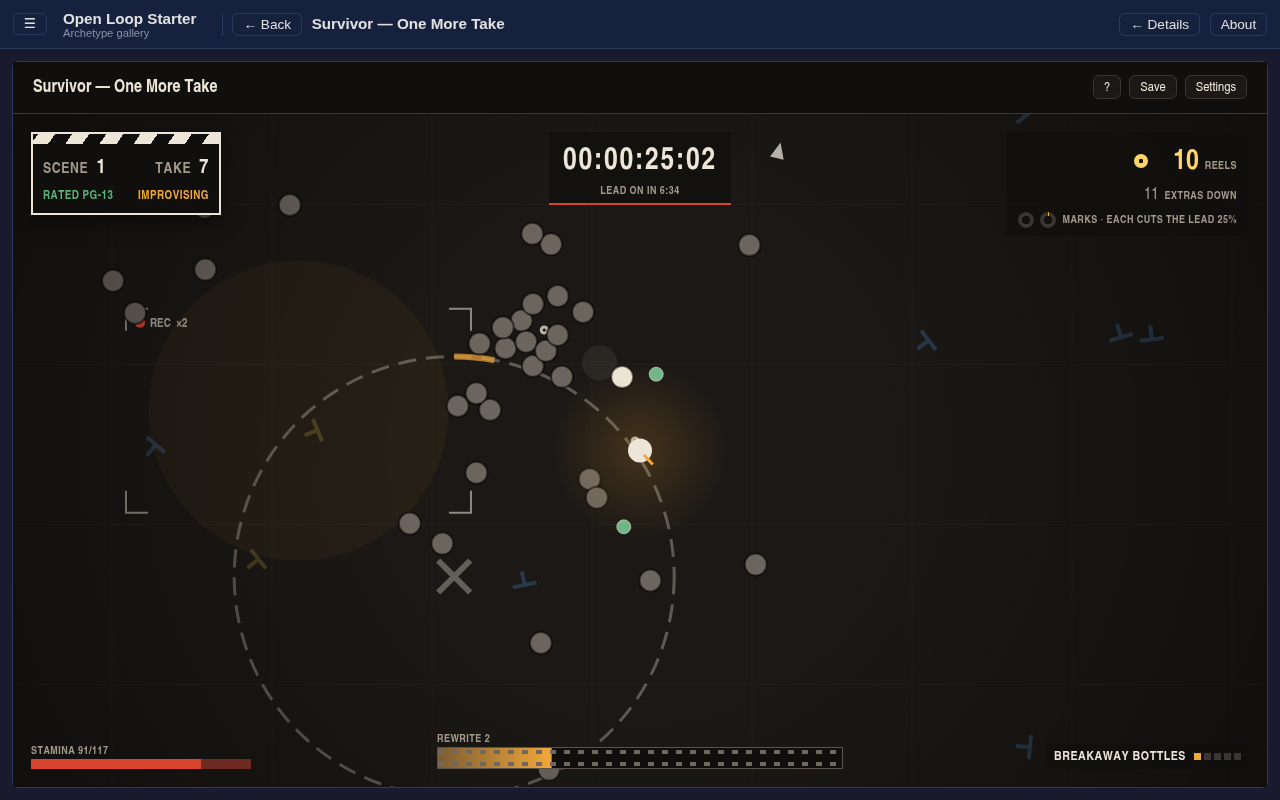
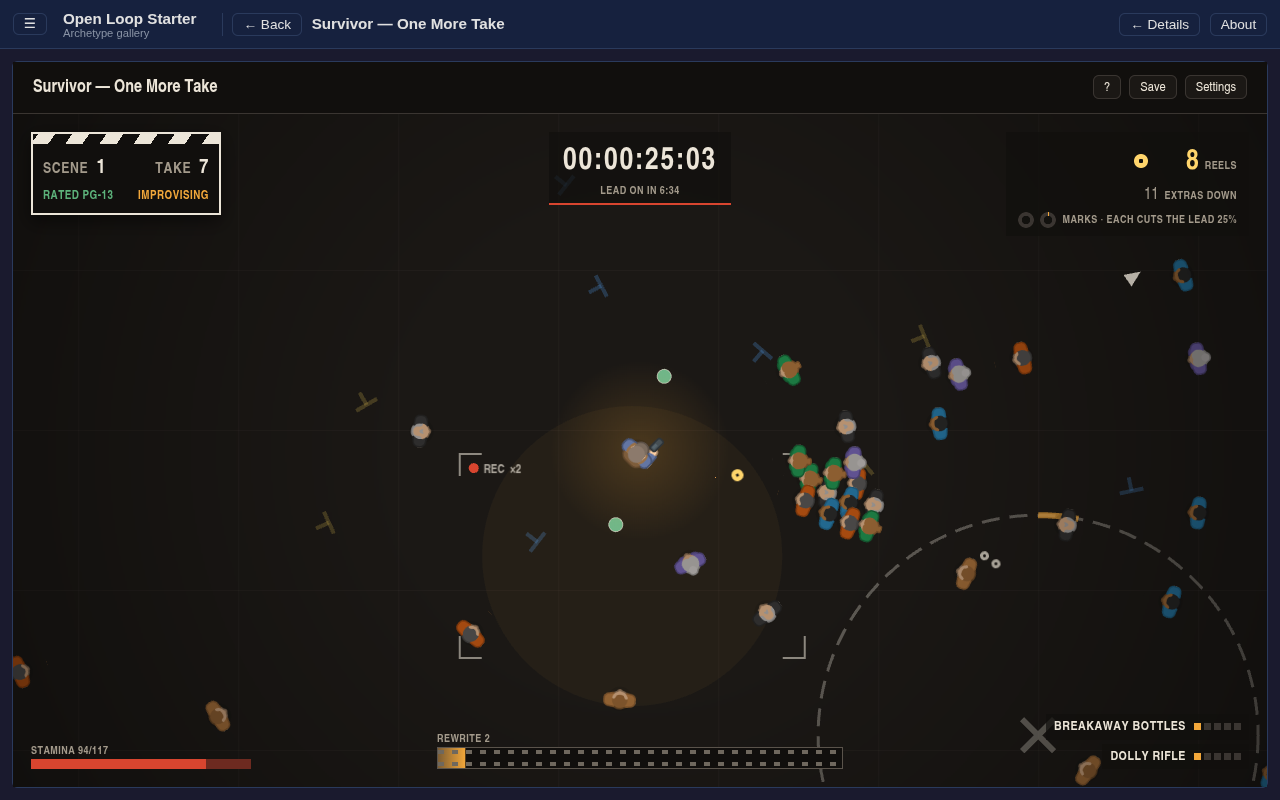
docs(survivor): the floor is starter's pixi play space
AGENTS.md § Adding a renderer names survivor's ui/floor/ as the pixi
play space beside skirmish's three.js one, and defender's PestLayer as
a pixi layer over a DOM board. The eject test locks that a survivor
fork keeps pixi.js. The games-site shots are re-taken on the host GPU,
so the cards show the figures and effects. The floor's headers use
American spelling.

Refs #59

diff --git a/src/showcase/archetypes/survivor/ui/floor/floor-scene.ts b/src/showcase/archetypes/survivor/ui/floor/floor-scene.ts
@@ -11,11 +11,11 @@
  * loop shape whatever draws them.
  *
  * Bodies are Kenney figures turned to face where they walk, tinted half-way toward their
- * kind's colour so the kinds read apart; the cast stand on rings. Effects are unTied
+ * kind's color so the kinds read apart; the cast stand on rings. Effects are unTied
  * animations played to their last frame, longer than the sim keeps the entry that started
  * them (`bursts.ts`). The art and its packing are in `floor-art.ts`.
  *
- * Colours are the costume's (`soundstage.css`), mirrored as literals, because a renderer
+ * Colors are the costume's (`soundstage.css`), mirrored as literals, because a renderer
  * cannot read CSS variables per draw. The billing face is read from `--font-billing` once.
  */
 import {
@@ -835,7 +835,7 @@ function lerpColor(a: number, b: number, t: number): number {
 }
 
 /**
- * An X of two butt-ended arms from the centre out to `arm` on each diagonal, `width` thick, as
+ * An X of two butt-ended arms from the center out to `arm` on each diagonal, `width` thick, as
  * one outline. Two stroked arms would double their alpha where they cross; one polygon
  * paints the crossing once, as the canvas's single stroked path did.
  */
@@ -874,7 +874,7 @@ function dashedCircle(g: Graphics, x: number, y: number, r: number, on: number, 
   return g;
 }
 
-/** A square canvas with a radial gradient from its centre to its edge. */
+/** A square canvas with a radial gradient from its center to its edge. */
 function radialCanvas(size: number, stops: [number, string][]): HTMLCanvasElement {
   const c = document.createElement('canvas');
   c.width = c.height = size;

diff --git a/src/showcase/archetypes/survivor/ui/TakeView.vue b/src/showcase/archetypes/survivor/ui/TakeView.vue
@@ -35,7 +35,7 @@ function syncInput(): void {
   if (keys.has('arrowdown') || keys.has('s')) my += 1;
   const floor = field.value?.$el as HTMLElement | undefined;
   if (mx === 0 && my === 0 && pointer && floor) {
-    // The camera holds the double at the floor's centre, so the pointer steers from there.
+    // The camera holds the double at the floor's center, so the pointer steers from there.
     const r = floor.getBoundingClientRect();
     const dx = pointer.x - (r.left + r.width / 2);
     const dy = pointer.y - (r.top + r.height / 2);
@@ -359,7 +359,7 @@ const slip = computed(() => {
   background: radial-gradient(circle, var(--stage-black) 0 2px, var(--reel-gold) 2.5px);
   align-self: center;
 }
-/* The cue cards stack under the timecode, each centred on it. */
+/* The cue cards stack under the timecode, each centered on it. */
 .cues {
   display: flex;
   flex-direction: column;
@@ -373,7 +373,7 @@ const slip = computed(() => {
 .take :deep(.strip-float) {
   align-self: stretch;
 }
-/* The HUD's bars are flat tape with square ends, and keep their own colours when full or empty. */
+/* The HUD's bars are flat tape with square ends, and keep their own colors when full or empty. */
 .bar,
 .filmstrip {
   --progress-bar-fill-full: var(--progress-bar-fill);

diff --git a/src/test/eject.test.ts b/src/test/eject.test.ts
@@ -80,6 +80,7 @@ describe('eject plan', () => {
   it('drops the showcase-only dependencies the kept game does not import', () => {
     expect(planEject(ROOT, 'cycler').dropDependencies).toContain('pixi.js');
     expect(planEject(ROOT, 'defender').dropDependencies).not.toContain('pixi.js');
+    expect(planEject(ROOT, 'survivor').dropDependencies).not.toContain('pixi.js');
   });
 
   it('rejects an unknown archetype', () => {

diff --git a/src/showcase/archetypes/survivor/ui/floor/floor-art.ts b/src/showcase/archetypes/survivor/ui/floor/floor-art.ts
@@ -9,7 +9,7 @@
  *   its cell.
  *
  * A Kenney figure faces +x, its head about 26 px across a 43 px frame, a little left of the
- * frame's centre; `FIGURE_ANCHOR` is that head.
+ * frame's center; `FIGURE_ANCHOR` is that head.
  */
 import { Assets, Rectangle, Texture } from 'pixi.js';
 import figuresUrl from '../../assets/floor/figures.png';

diff --git a/AGENTS.md b/AGENTS.md
@@ -222,7 +222,7 @@ pnpm add pixi.js                             # pixi ships its own types
 - **The drawing.** Follow the engine recipe § Drawing ticking game state: a read-only projection. It is in `docs/consumer-guide-recipes-tick.md` in the `@open-loop/engine` package. The drawing owns its loop, reads game state each animation frame, and writes none.
 - **Tests.** jsdom has no WebGL. A component test of a WebGL host replaces the scene class with a stand-in through `vi.mock`.
 - **Screenshots.** Headless Chrome draws WebGL in software, at a few frames a second. Launch it on the host GPU with `--use-angle=gl-egl --ignore-gpu-blocklist`.
-- **Worked examples.** In a starter checkout, skirmish's `ui/field/` draws with three, and defender's `ui/components/PestLayer.vue` with pixi.
+- **Worked examples.** In a starter checkout, skirmish's `ui/field/` draws its play space with three, and survivor's `ui/floor/` draws its play space with pixi. Defender's `ui/components/PestLayer.vue` is a pixi layer over a DOM board.
 
 <!-- eject:strip-start -->
 A story that adds a renderer lists it in `SHOWCASE_ONLY_DEPS`; `src/showcase/AGENTS.md` § Fork workflow says why.
